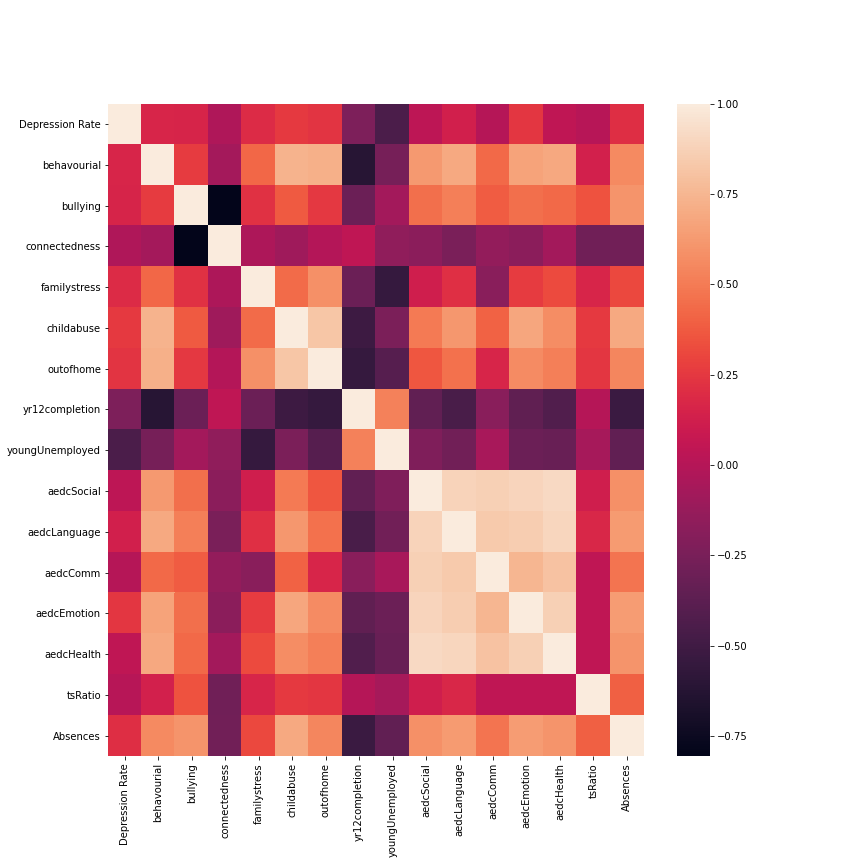
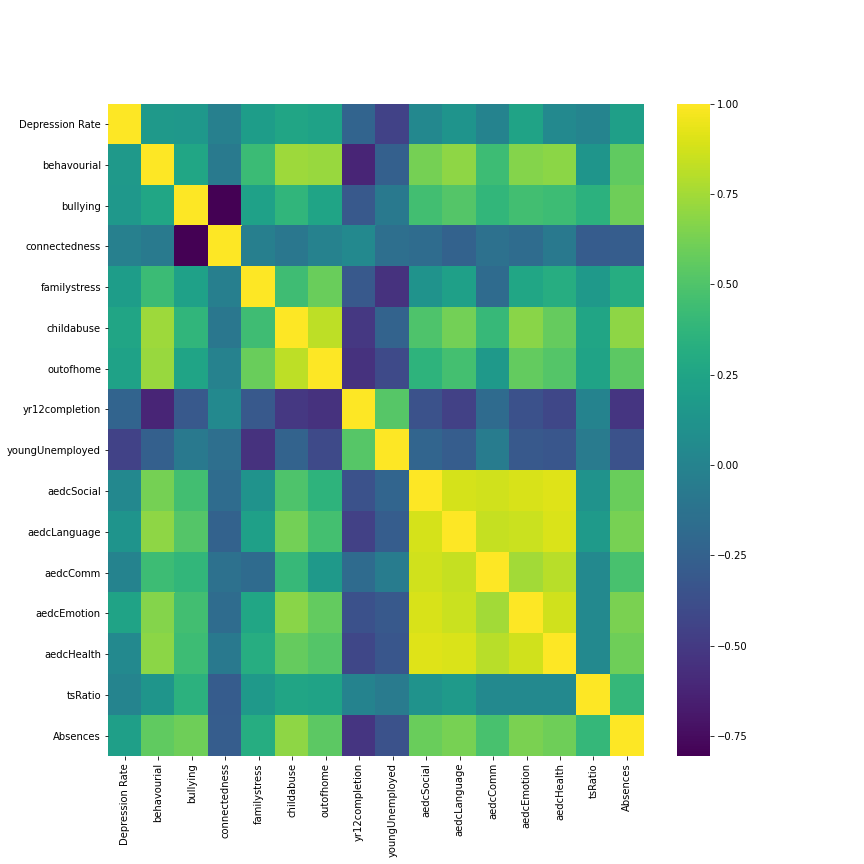
added visualisations

diff --git a/visualisations.py b/visualisations.py
@@ -60,7 +60,7 @@ for_corr = lgaData.copy()
 for_corr = for_corr.dropna()
 cf = for_corr.corr(method='pearson')
 plt.figure(figsize = (12,12))
-sns.heatmap(cf)
+sns.heatmap(cf, cmap = "viridis")
 plt.savefig('./plots/correlationMap.png')
 
 # midf heatmap
@@ -76,7 +76,7 @@ for var0 in lgaData.columns:
 miDf.index = miDf.columns
 
 normalized_miDf=(miDf-miDf.min())/(miDf.max()-miDf.min())
-sns.heatmap(normalized_miDf)
+sns.heatmap(normalized_miDf, cmap = "viridis")
 plt.savefig('./plots/midfMap.png')
 
 # parallel coordinate plots
